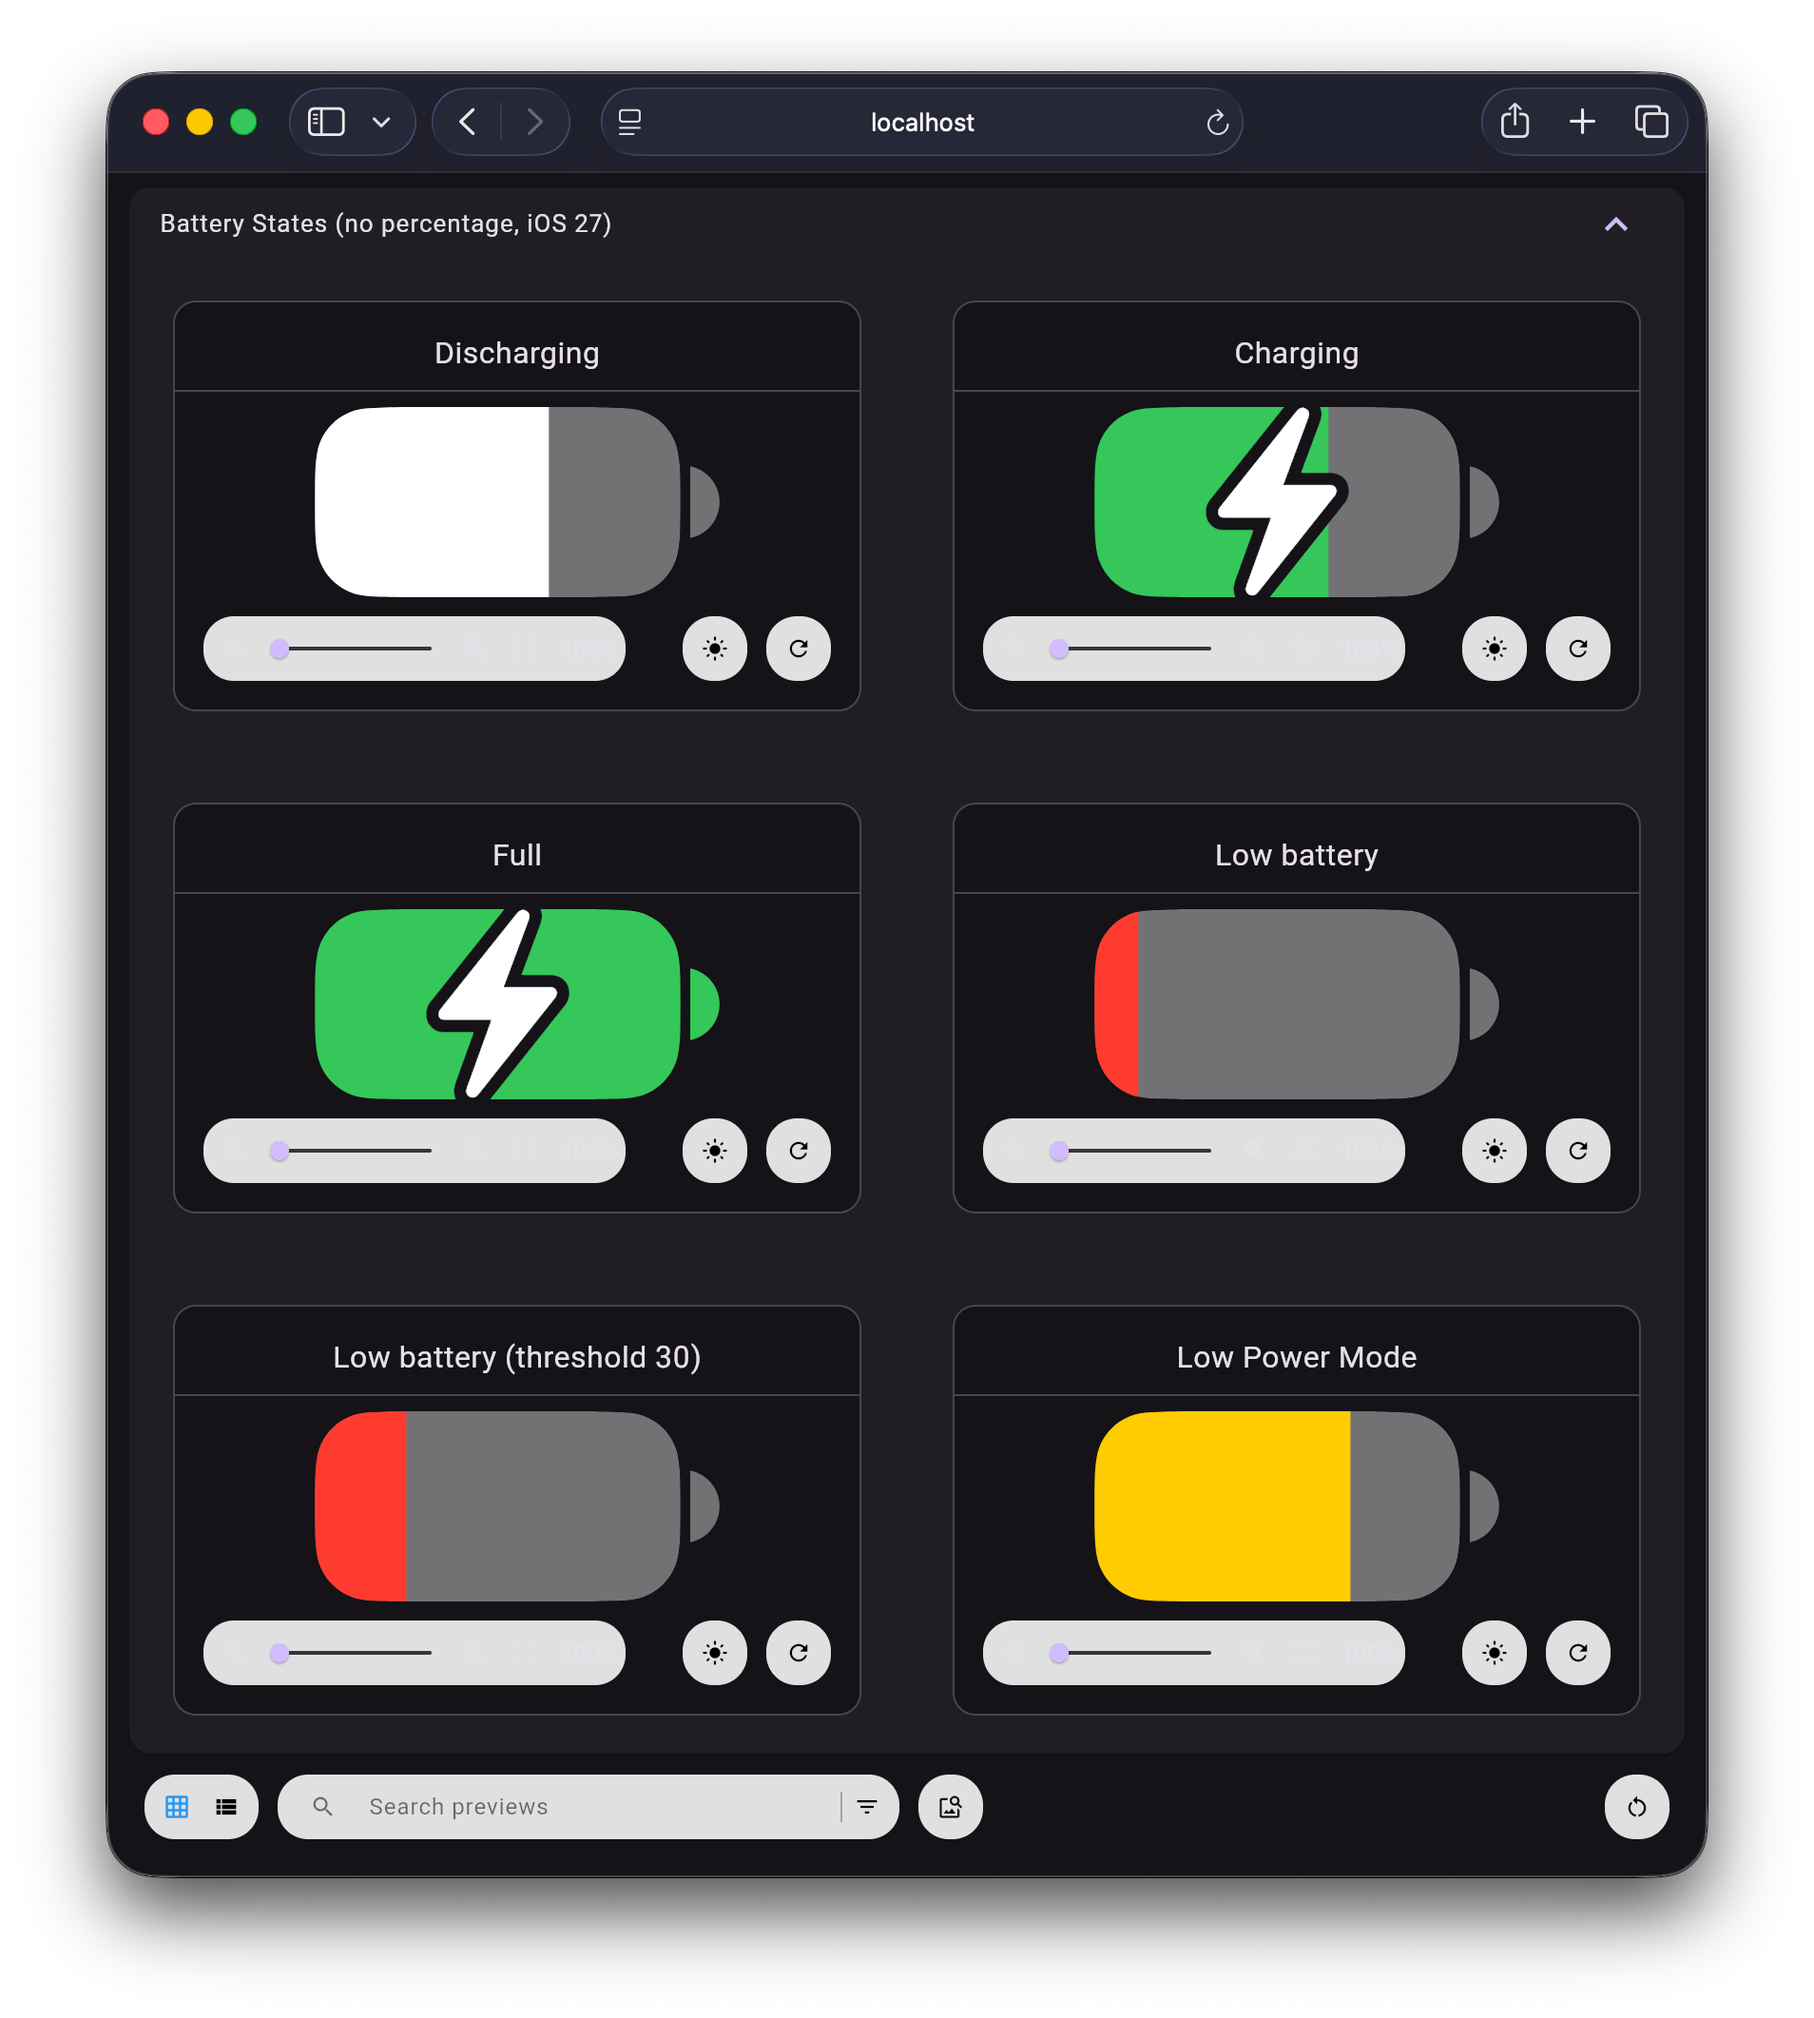
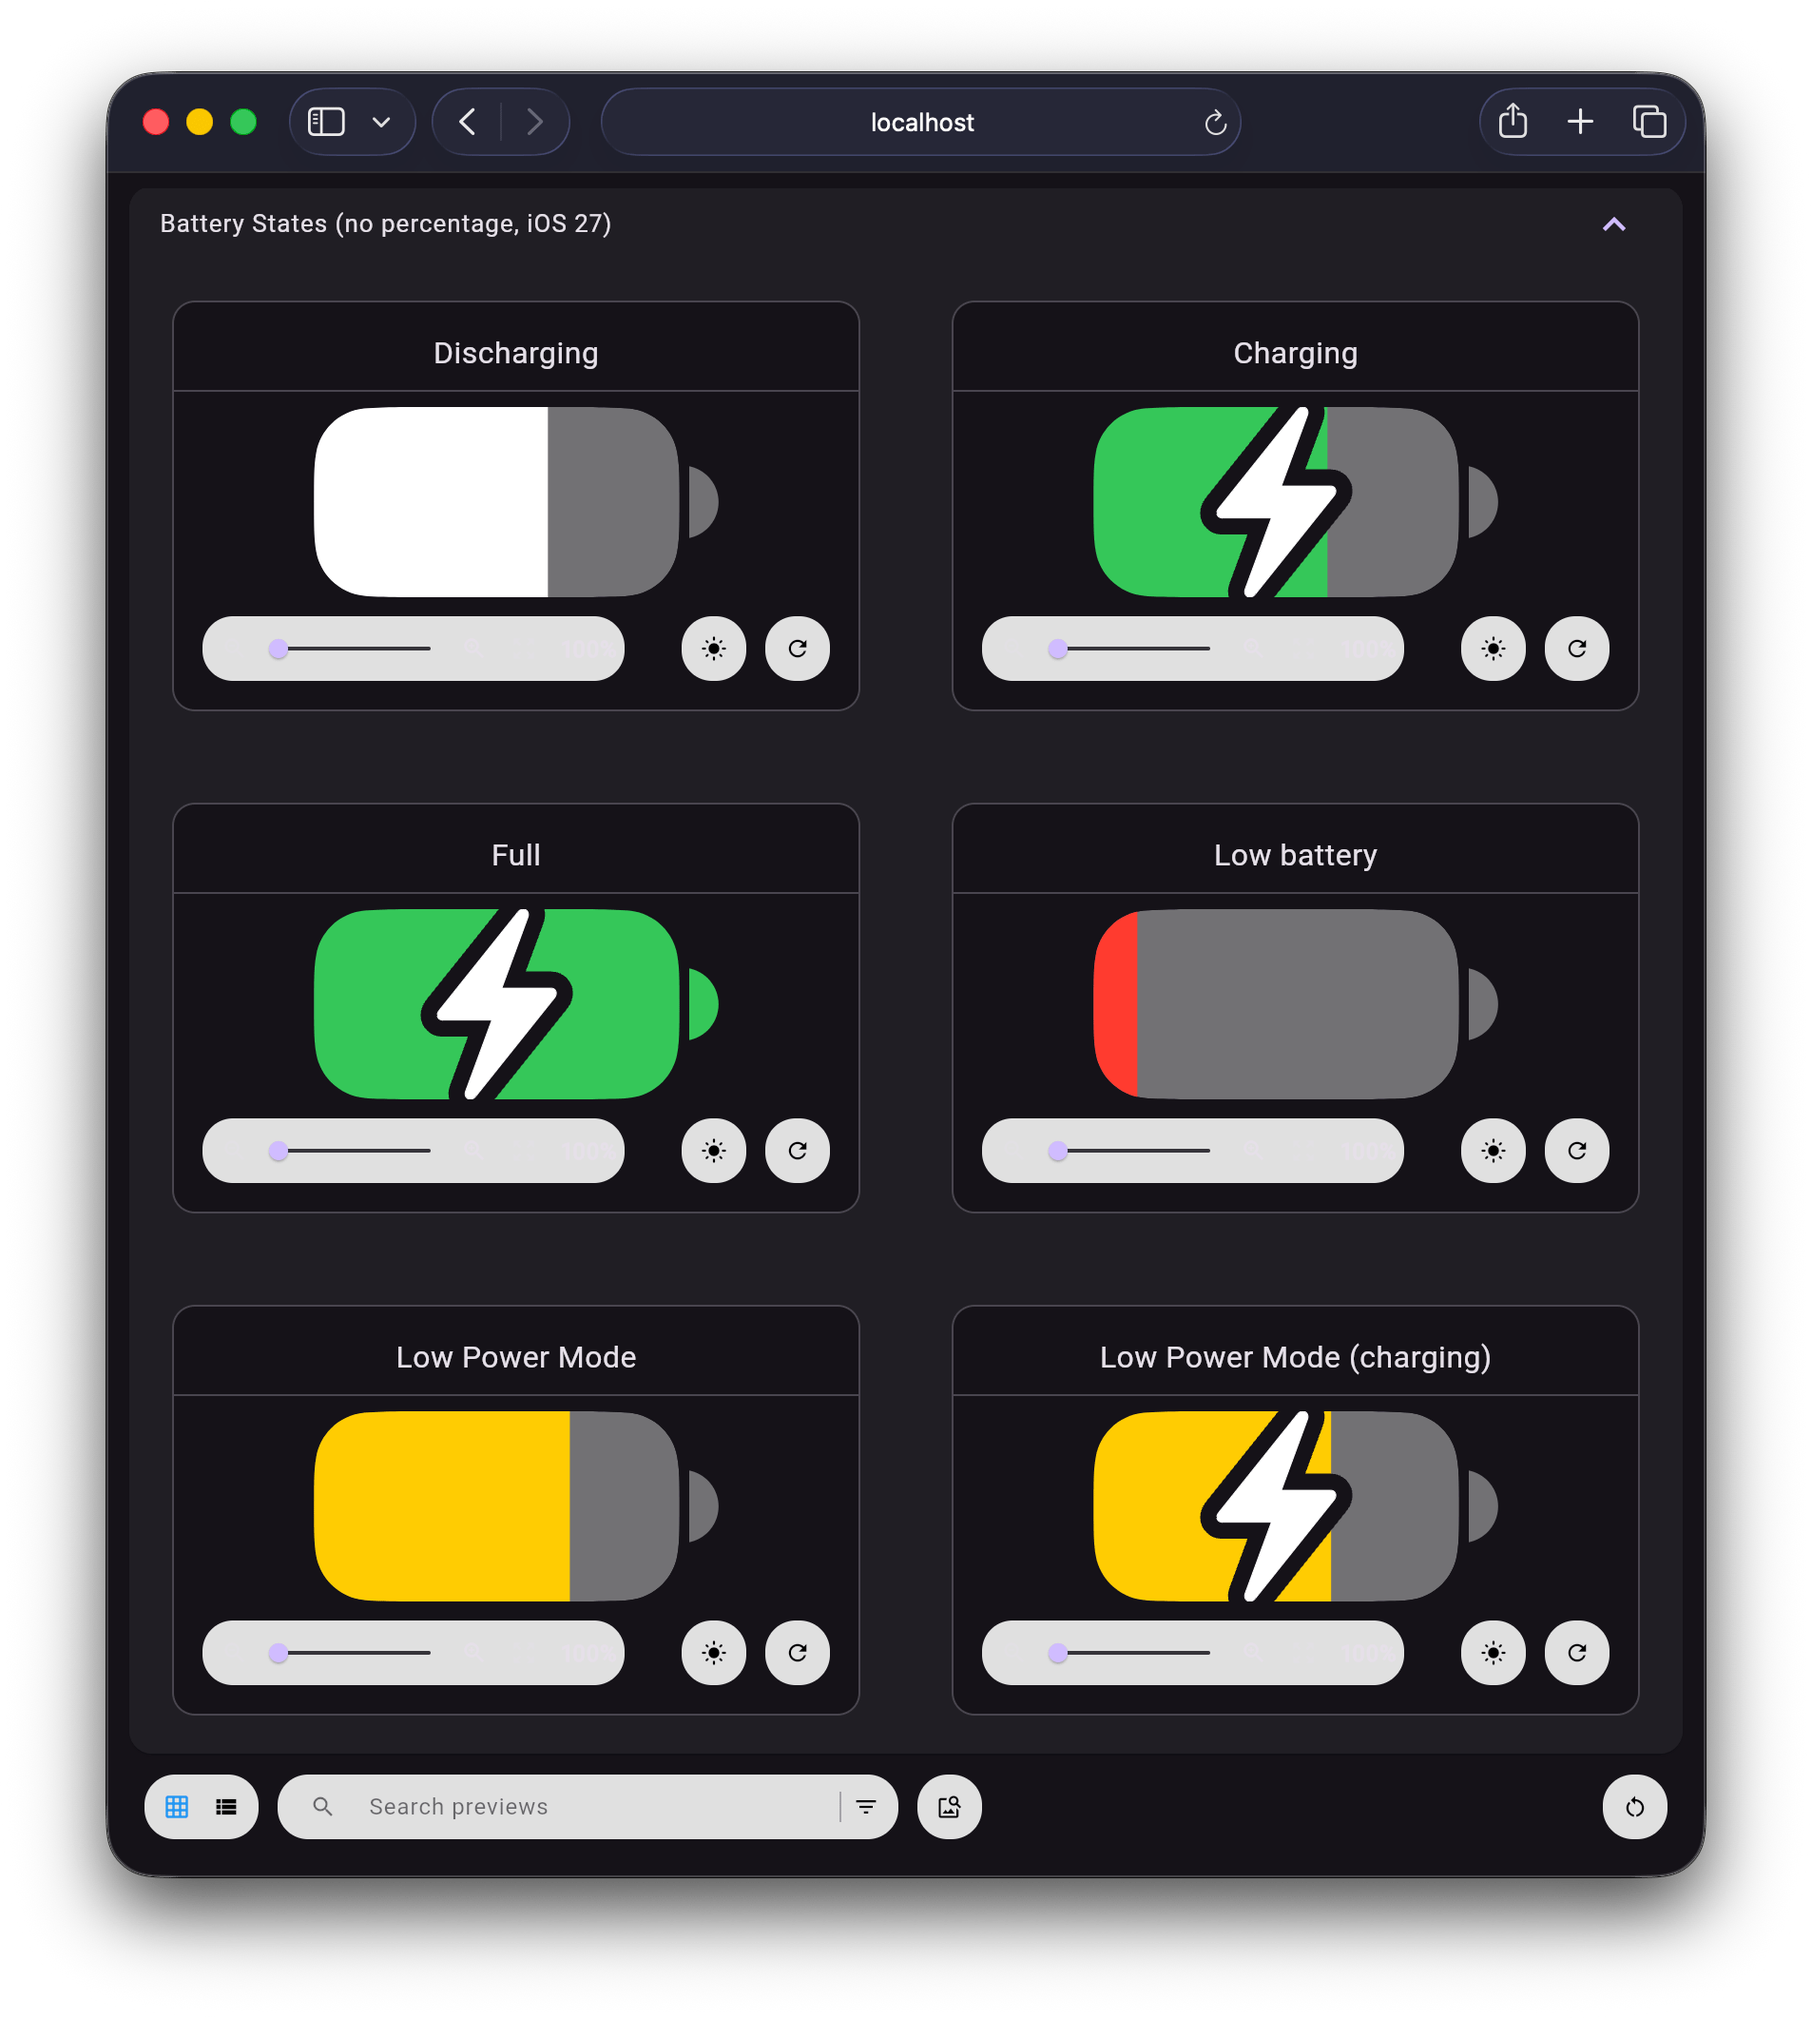
feat: replace bolt glyph with vector-drawn CustomPaint

diff --git a/lib/src/ios_battery_indicator.dart b/lib/src/ios_battery_indicator.dart
@@ -562,35 +562,15 @@ class _IosBatteryIndicatorState extends State<IosBatteryIndicator> {
     );
 
     if (_isCharging && widget.chargingWithBolt) {
-      double blotScale = kIsWeb ? 1.05 : 1.1;
-
       child = Stack(
         alignment: .center,
         children: [
           Cutout(
             alignment: .center,
-            maskChild: Transform.scale(
-              scale: blotScale,
-              child: _buildBolt(
-                context,
-                style: TextStyle(
-                  fontSize: _batteryHeight,
-                  foreground: Paint()
-                    ..style = .stroke
-                    ..strokeWidth = 5,
-                ),
-              ),
-            ),
+            maskChild: _buildBolt(context, strokeWidth: 2.8),
             child: child,
           ),
-          Transform.scale(
-            scale: blotScale,
-            child: _buildBolt(
-              context,
-              color: theme.contentColor,
-              fontSize: _batteryHeight,
-            ),
-          ),
+          _buildBolt(context, color: theme.contentColor),
         ],
       );
     }
@@ -674,8 +654,7 @@ class _IosBatteryIndicatorState extends State<IosBatteryIndicator> {
                   if (_isCharging && _showBolt)
                     _buildBolt(
                       context,
-                      key: const ValueKey('bolt'),
-                      fontSize: _batteryHeight * .78,
+                      height: _batteryHeight * .75,
                       color: _isInBatterySaveMode
                           ? CupertinoColors.black
                           : CupertinoColors.white,
@@ -805,34 +784,85 @@ class _IosBatteryIndicatorState extends State<IosBatteryIndicator> {
     return clipped;
   }
 
-  /// Builds a [Text] widget rendering the Cupertino bolt (⚡) glyph.
-  ///
-  /// The returned widget uses the Cupertino icon font so that the bolt
-  /// renders natively rather than as an emoji.
-  ///
-  /// The [icon] must be a member of [CupertinoIcons], since the text is drawn
-  /// with the Cupertino icon font ([CupertinoIcons.iconFont]) rather than a
-  /// generic [IconData] font.
+  /// Builds a bolt (⚡) glyph by vector-drawing a [CustomPaint] widget.
   Widget _buildBolt(
     BuildContext context, {
-    Key? key,
-    IconData icon = CupertinoIcons.bolt_fill,
-    double? fontSize,
+    double? height,
     Color? color,
-    TextStyle? style,
+    strokeWidth = 0,
   }) {
-    return Text(
-      .fromCharCode(icon.codePoint),
-      key: key,
-      style: DefaultTextStyle.of(context).style
-          .merge(
-            TextStyle(
-              fontFamily: CupertinoIcons.iconFont,
-              package: CupertinoIcons.iconFontPackage,
+    final theme = _theme(context);
+    return SizedBox(
+      height: height ?? _batteryHeight,
+      child: FittedBox(
+        child: SizedBox(
+          width: _boltWidth,
+          height: _boltHeight,
+          child: CustomPaint(
+            painter: _BoltPainter(
+              strokeWidth: strokeWidth,
+              color: color ?? theme.contentColor,
             ),
-          )
-          .merge(style)
-          .copyWith(fontSize: fontSize, color: color),
+          ),
+        ),
+      ),
     );
+  }
+}
+
+const double _boltWidth = 10;
+const double _boltHeight = 16;
+
+class _BoltPainter extends CustomPainter {
+  final double strokeWidth;
+  final Color color;
+
+  _BoltPainter({required this.strokeWidth, required this.color});
+
+  @override
+  void paint(Canvas canvas, Size size) {
+    final double scaleX = size.width / _boltWidth;
+    final double scaleY = size.height / _boltHeight;
+    final double scale = scaleX < scaleY ? scaleX : scaleY;
+
+    final double dx = (size.width - _boltWidth * scale) / 2;
+    final double dy = (size.height - _boltHeight * scale) / 2;
+
+    canvas.translate(dx, dy);
+    canvas.scale(scale, scale);
+
+    final path = Path();
+    path.moveTo(0, 8.92);
+    path.cubicTo(0, 9.15, .18, 9.33, .45, 9.33);
+    path.lineTo(4.59, 9.33);
+    path.lineTo(2.40, 15.27);
+    path.cubicTo(2.15, 15.92, 2.82, 16.26, 3.25, 15.73);
+    path.lineTo(9.84, 7.49);
+    path.cubicTo(9.95, 7.35, 10.01, 7.22, 10.01, 7.07);
+    path.cubicTo(10.01, 6.84, 9.84, 6.65, 9.57, 6.65);
+    path.lineTo(5.43, 6.65);
+    path.lineTo(7.61, .73);
+    path.cubicTo(7.86, .07, 7.19, -.27, 6.76, .27);
+    path.lineTo(.17, 8.50);
+    path.cubicTo(.06, 8.64, 0, 8.77, 0, 8.92);
+    path.close();
+
+    final paint = Paint()
+      ..style = .fill
+      ..color = color
+      ..isAntiAlias = true;
+    canvas.drawPath(path, paint);
+
+    final strokePaint = Paint()
+      ..style = .stroke
+      ..strokeWidth = strokeWidth
+      ..color = color
+      ..isAntiAlias = true;
+    canvas.drawPath(path, strokePaint);
+  }
+
+  @override
+  bool shouldRepaint(covariant _BoltPainter oldDelegate) {
+    return oldDelegate.strokeWidth != strokeWidth || oldDelegate.color != color;
   }
 }

diff --git a/example/lib/main.dart b/example/lib/main.dart
@@ -30,7 +30,7 @@ class _BatteryDemoAppState extends State<BatteryDemoApp> {
 
   bool _showBatteryPercentage = false;
 
-  bool _useTabularFigures = true;
+  bool _useTabularFigures = false;
 
   bool _chargingWithBolt = true;
 
@@ -436,22 +436,22 @@ Widget stateLow() =>
     IosBatteryIndicator(batteryLevel: 12, batteryState: .discharging);
 
 @BatteryIndicatorPreview(
-  name: 'Low battery (threshold 30)',
-  group: 'Battery States (with percentage)',
-)
-Widget stateCritical() => IosBatteryIndicator(
-  batteryLevel: 25,
-  batteryState: .discharging,
-  lowBatteryThreshold: 30,
-);
-
-@BatteryIndicatorPreview(
   name: 'Low Power Mode',
   group: 'Battery States (with percentage)',
 )
-Widget appearanceSaveMode() => IosBatteryIndicator(
+Widget saveMode() => IosBatteryIndicator(
   batteryLevel: 70,
   batteryState: .discharging,
+  isInBatterySaveMode: true,
+);
+
+@BatteryIndicatorPreview(
+  name: 'Low Power Mode (charging)',
+  group: 'Battery States (with percentage)',
+)
+Widget saveModeCharging() => IosBatteryIndicator(
+  batteryLevel: 25,
+  batteryState: .charging,
   isInBatterySaveMode: true,
 );
 
@@ -494,23 +494,23 @@ Widget stateLowHidden() => IosBatteryIndicator(
 );
 
 @BatteryIndicatorPreview(
-  name: 'Low battery (threshold 30)',
+  name: 'Low Power Mode',
   group: 'Battery States (no percentage)',
 )
-Widget stateCriticalHidden() => IosBatteryIndicator(
-  batteryLevel: 25,
+Widget saveModeHidden() => IosBatteryIndicator(
+  batteryLevel: 70,
   batteryState: .discharging,
-  lowBatteryThreshold: 30,
+  isInBatterySaveMode: true,
   showBatteryPercentage: false,
 );
 
 @BatteryIndicatorPreview(
-  name: 'Low Power Mode',
+  name: 'Low Power Mode (charging)',
   group: 'Battery States (no percentage)',
 )
-Widget stateSaveModeHidden() => IosBatteryIndicator(
-  batteryLevel: 70,
-  batteryState: .discharging,
+Widget saveModeChargingHidden() => IosBatteryIndicator(
+  batteryLevel: 80,
+  batteryState: .charging,
   isInBatterySaveMode: true,
   showBatteryPercentage: false,
 );
@@ -520,7 +520,7 @@ Widget stateSaveModeHidden() => IosBatteryIndicator(
   name: 'Discharging',
   group: 'Battery States (no percentage, iOS 27)',
 )
-Widget stateDischargingHiddenIOS27() => IosBatteryIndicator(
+Widget stateDischargingIOS27() => IosBatteryIndicator(
   batteryLevel: 64,
   batteryState: .discharging,
   isIOS27Style: true,
@@ -531,7 +531,7 @@ Widget stateDischargingHiddenIOS27() => IosBatteryIndicator(
   name: 'Charging',
   group: 'Battery States (no percentage, iOS 27)',
 )
-Widget stateChargingHiddenIOS27() => IosBatteryIndicator(
+Widget stateChargingIOS27() => IosBatteryIndicator(
   batteryLevel: 64,
   batteryState: .charging,
   isIOS27Style: true,
@@ -542,7 +542,7 @@ Widget stateChargingHiddenIOS27() => IosBatteryIndicator(
   name: 'Full',
   group: 'Battery States (no percentage, iOS 27)',
 )
-Widget stateFullHiddenIOS27() => IosBatteryIndicator(
+Widget stateFullIOS27() => IosBatteryIndicator(
   batteryLevel: 100,
   batteryState: .full,
   isIOS27Style: true,
@@ -553,21 +553,9 @@ Widget stateFullHiddenIOS27() => IosBatteryIndicator(
   name: 'Low battery',
   group: 'Battery States (no percentage, iOS 27)',
 )
-Widget stateLowHiddenIOS27() => IosBatteryIndicator(
+Widget stateLowIOS27() => IosBatteryIndicator(
   batteryLevel: 12,
   batteryState: .discharging,
-  isIOS27Style: true,
-  showBatteryPercentage: false,
-);
-
-@BatteryIndicatorPreview(
-  name: 'Low battery (threshold 30)',
-  group: 'Battery States (no percentage, iOS 27)',
-)
-Widget stateCriticalHiddenIOS27() => IosBatteryIndicator(
-  batteryLevel: 25,
-  batteryState: .discharging,
-  lowBatteryThreshold: 30,
   isIOS27Style: true,
   showBatteryPercentage: false,
 );
@@ -576,9 +564,21 @@ Widget stateCriticalHiddenIOS27() => IosBatteryIndicator(
   name: 'Low Power Mode',
   group: 'Battery States (no percentage, iOS 27)',
 )
-Widget stateSaveModeHiddenIOS27() => IosBatteryIndicator(
+Widget saveModeIOS27() => IosBatteryIndicator(
   batteryLevel: 70,
   batteryState: .discharging,
+  isInBatterySaveMode: true,
+  isIOS27Style: true,
+  showBatteryPercentage: false,
+);
+
+@BatteryIndicatorPreview(
+  name: 'Low Power Mode (charging)',
+  group: 'Battery States (no percentage, iOS 27)',
+)
+Widget saveModeChargingIOS27() => IosBatteryIndicator(
+  batteryLevel: 65,
+  batteryState: .charging,
   isInBatterySaveMode: true,
   isIOS27Style: true,
   showBatteryPercentage: false,

diff --git a/CHANGELOG.md b/CHANGELOG.md
@@ -1,3 +1,8 @@
+## 1.8.3
+
+- 🎨 Replace the Cupertino-icon-font bolt glyph with a vector-drawn `CustomPaint` bolt for crisp,
+  resolution-independent scaling at any indicator size.
+
 ## 1.8.2
 
 - 📝 Add an interactive widget-preview showcase to the example app.
@@ -5,7 +10,8 @@
 
 ## 1.8.1
 
-- 🎨 Tune the iOS 27 style proportions — tighter row `spacing` and a larger positive pole for a more faithful native look.
+- 🎨 Tune the iOS 27 style proportions — tighter row `spacing` and a larger positive pole for a more
+  faithful native look.
 - 📝 Document the `SF-Pro.ttf` subsetting workflow and rebuild the bundled subset to reduce size.
 
 ## 1.8.0

diff --git a/example/README.md b/example/README.md
@@ -3,5 +3,7 @@
 ## Preview
 
 ```bash
+cd example
+flutter widget-preview clean
 flutter widget-preview start
 ```
